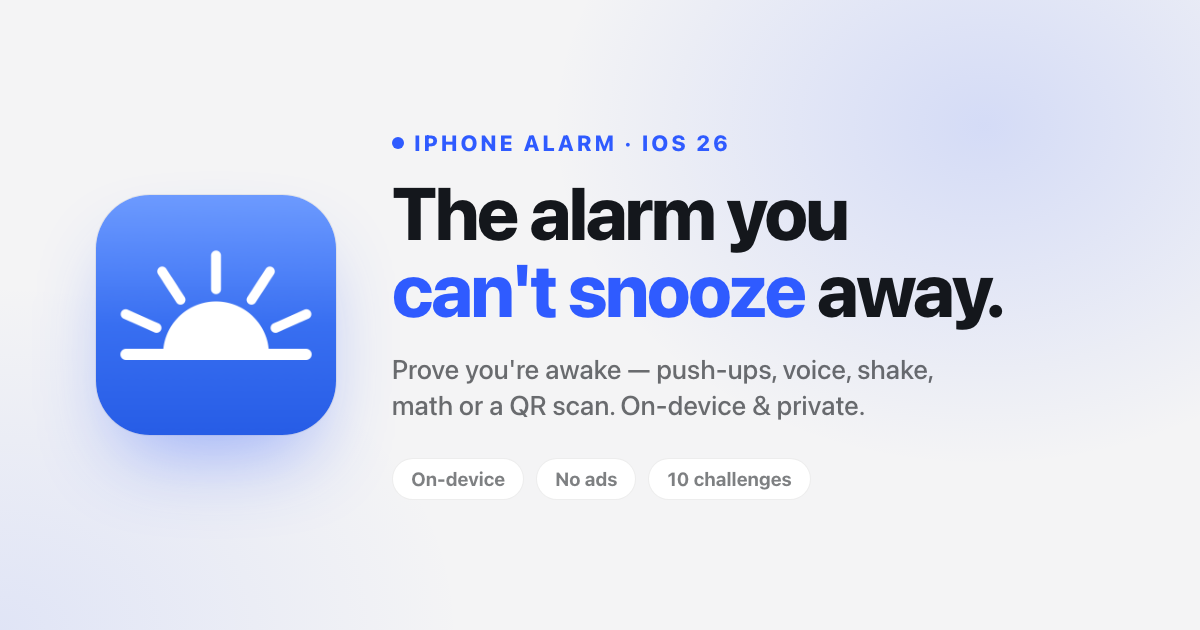
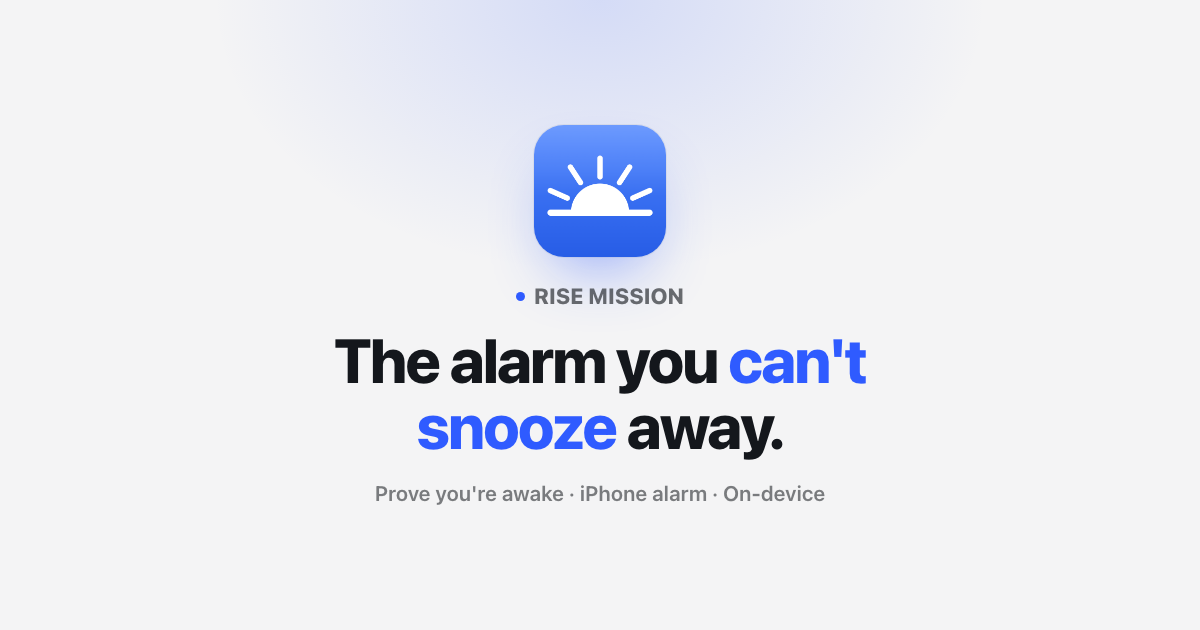
site: add FAQ (SEO + FAQPage schema) and center the OG card
- 7-question FAQ as a native <details> accordion (answers stay in the HTML for
  crawlers and AI search) covering: how it works, rings on Silent/Focus/locked,
  the 10 challenges, on-device privacy, backup/emergency dismiss, pricing, and
  who it's for.
- Matching FAQPage JSON-LD so Google can show FAQ rich results and LLMs get
  clean Q&A. Validated: 7 questions parsed.
- Redesigned og-image.png to a centered, safe-zone composition (icon + brand +
  bold tagline) so link previews no longer crop/cramp the old left/right layout.

diff --git a/index.html b/index.html
@@ -64,6 +64,72 @@
 }
 </script>
 
+<!-- FAQ structured data: FAQ rich results in Google + clean Q&A for AI search. -->
+<script type="application/ld+json">
+{
+  "@context": "https://schema.org",
+  "@type": "FAQPage",
+  "mainEntity": [
+    {
+      "@type": "Question",
+      "name": "How does Rise Mission stop me from snoozing?",
+      "acceptedAnswer": {
+        "@type": "Answer",
+        "text": "When your alarm rings, you complete a quick wake-up challenge — push-ups counted by your camera, a spoken morning affirmation, a shake, math, or scanning a QR code across the room. The alarm keeps ringing until you finish, so you can't tap snooze and fall back asleep."
+      }
+    },
+    {
+      "@type": "Question",
+      "name": "Does the alarm ring on Silent, in Focus, or when the app is closed?",
+      "acceptedAnswer": {
+        "@type": "Answer",
+        "text": "Yes. Rise Mission uses Apple's system alarms (AlarmKit), so it rings on the Lock Screen, in Silent mode, and during a Focus — even with the app closed. A powered-off iPhone can't ring, and no alarm app can change that."
+      }
+    },
+    {
+      "@type": "Question",
+      "name": "What wake-up challenges can I choose from?",
+      "acceptedAnswer": {
+        "@type": "Answer",
+        "text": "Ten. Push-ups and squats counted by your camera, a walk that counts your steps, Object Find, and a QR scan, plus Voice (say an affirmation out loud), Shake, Math, Typing, and Memory. Every physical challenge pairs with a mental backup."
+      }
+    },
+    {
+      "@type": "Question",
+      "name": "Is my camera and voice data private?",
+      "acceptedAnswer": {
+        "@type": "Answer",
+        "text": "Completely. Camera frames and your voice are processed on your iPhone with Apple's Vision and Speech frameworks and discarded immediately — never recorded, saved, or uploaded. There's no account and no cloud sync; your alarms and history stay on your device."
+      }
+    },
+    {
+      "@type": "Question",
+      "name": "What if the camera can't see me or the room is too dark?",
+      "acceptedAnswer": {
+        "@type": "Answer",
+        "text": "Every physical challenge has a mental backup that runs automatically when the camera or a sensor isn't available, so your streak stays safe. An emergency dismiss (hold five seconds) is always there too, so a ringing alarm can never trap you."
+      }
+    },
+    {
+      "@type": "Question",
+      "name": "Is Rise Mission free?",
+      "acceptedAnswer": {
+        "@type": "Answer",
+        "text": "Rise Mission is free to download. Rise Mission Pro — available weekly, yearly, or as a one-time lifetime purchase — unlocks every challenge, unlimited alarms, all sounds, the Focus timer and Pomodoro, and full stats."
+      }
+    },
+    {
+      "@type": "Question",
+      "name": "Who is Rise Mission for?",
+      "acceptedAnswer": {
+        "@type": "Answer",
+        "text": "Heavy sleepers and chronic snoozers — anyone who can turn off a normal alarm in their sleep. If you have early workouts, classes, shifts, or flights to catch, the wake-up challenge makes sure you're genuinely awake before the alarm stops."
+      }
+    }
+  ]
+}
+</script>
+
 <style>
   /* ---------- Design tokens (mirror the v1.4 app) ---------- */
   :root {
@@ -225,6 +291,25 @@
   .foot-links a:hover { color: var(--text); }
   .foot-copy { color: var(--faint); font-size: 13px; }
 
+  /* ---------- FAQ ---------- */
+  .faq { padding: 46px 0 8px; }
+  .faq .wrap { max-width: 720px; }
+  .faq .fh { text-align: center; margin-bottom: 26px; }
+  .faq-list { border-top: 1px solid var(--line-soft); }
+  .faq details { border-bottom: 1px solid var(--line-soft); }
+  .faq summary {
+    cursor: pointer; list-style: none; display: flex; align-items: center; justify-content: space-between;
+    gap: 16px; padding: 18px 2px; font-size: 16.5px; font-weight: 700; color: var(--text);
+  }
+  .faq summary::-webkit-details-marker { display: none; }
+  .faq summary:hover { color: var(--accent); }
+  .faq summary .plus { position: relative; width: 15px; height: 15px; flex: none; }
+  .faq summary .plus::before, .faq summary .plus::after { content: ""; position: absolute; background: var(--faint); border-radius: 2px; }
+  .faq summary .plus::before { top: 6.5px; left: 0; width: 15px; height: 2px; }
+  .faq summary .plus::after { left: 6.5px; top: 0; width: 2px; height: 15px; transition: transform .2s var(--ease), opacity .2s; }
+  .faq details[open] summary .plus::after { transform: rotate(90deg); opacity: 0; }
+  .faq details p { margin: 0 0 18px; color: var(--muted); font-size: 15px; max-width: 630px; }
+
   /* ---------- Scroll reveal ---------- */
   .reveal { transition: opacity .7s var(--ease), transform .7s var(--ease); }
   .js .reveal { opacity: 0; transform: translateY(16px); }
@@ -310,6 +395,46 @@
       <div class="ic"><svg viewBox="0 0 24 24" fill="none" stroke="currentColor" stroke-width="2" stroke-linecap="round" stroke-linejoin="round"><path d="M6 8a6 6 0 0 1 12 0c0 7 3 9 3 9H3s3-2 3-9"/><path d="M10 21a2 2 0 0 0 4 0"/></svg></div>
       <h3>Rings no matter what</h3>
       <p>Built on Apple AlarmKit, so it rings on Silent, in Focus, and on the Lock Screen — even with the app closed.</p>
+    </div>
+  </div>
+</section>
+
+<!-- ============ FAQ ============ -->
+<section class="faq" id="faq">
+  <div class="wrap">
+    <div class="fh reveal">
+      <span class="eyebrow">FAQ</span>
+      <h2>Questions, answered</h2>
+    </div>
+    <div class="faq-list reveal">
+      <details open>
+        <summary>How does Rise Mission stop me from snoozing?<span class="plus"></span></summary>
+        <p>When your alarm rings, you complete a quick wake-up challenge — push-ups counted by your camera, a spoken morning affirmation, a shake, math, or scanning a QR code across the room. The alarm keeps ringing until you finish, so you can't tap snooze and fall back asleep.</p>
+      </details>
+      <details>
+        <summary>Does the alarm ring on Silent, in Focus, or when the app is closed?<span class="plus"></span></summary>
+        <p>Yes. Rise Mission uses Apple's system alarms (AlarmKit), so it rings on the Lock Screen, in Silent mode, and during a Focus — even with the app closed. A powered-off iPhone can't ring, and no alarm app can change that.</p>
+      </details>
+      <details>
+        <summary>What wake-up challenges can I choose from?<span class="plus"></span></summary>
+        <p>Ten. Push-ups and squats counted by your camera, a walk that counts your steps, Object Find, and a QR scan, plus Voice (say an affirmation out loud), Shake, Math, Typing, and Memory. Every physical challenge pairs with a mental backup.</p>
+      </details>
+      <details>
+        <summary>Is my camera and voice data private?<span class="plus"></span></summary>
+        <p>Completely. Camera frames and your voice are processed on your iPhone with Apple's Vision and Speech frameworks and discarded immediately — never recorded, saved, or uploaded. There's no account and no cloud sync; your alarms and history stay on your device.</p>
+      </details>
+      <details>
+        <summary>What if the camera can't see me or the room is too dark?<span class="plus"></span></summary>
+        <p>Every physical challenge has a mental backup that runs automatically when the camera or a sensor isn't available, so your streak stays safe. An emergency dismiss (hold five seconds) is always there too, so a ringing alarm can never trap you.</p>
+      </details>
+      <details>
+        <summary>Is Rise Mission free?<span class="plus"></span></summary>
+        <p>Rise Mission is free to download. Rise Mission Pro — available weekly, yearly, or as a one-time lifetime purchase — unlocks every challenge, unlimited alarms, all sounds, the Focus timer and Pomodoro, and full stats.</p>
+      </details>
+      <details>
+        <summary>Who is Rise Mission for?<span class="plus"></span></summary>
+        <p>Heavy sleepers and chronic snoozers — anyone who can turn off a normal alarm in their sleep. If you have early workouts, classes, shifts, or flights to catch, the wake-up challenge makes sure you're genuinely awake before the alarm stops.</p>
+      </details>
     </div>
   </div>
 </section>
